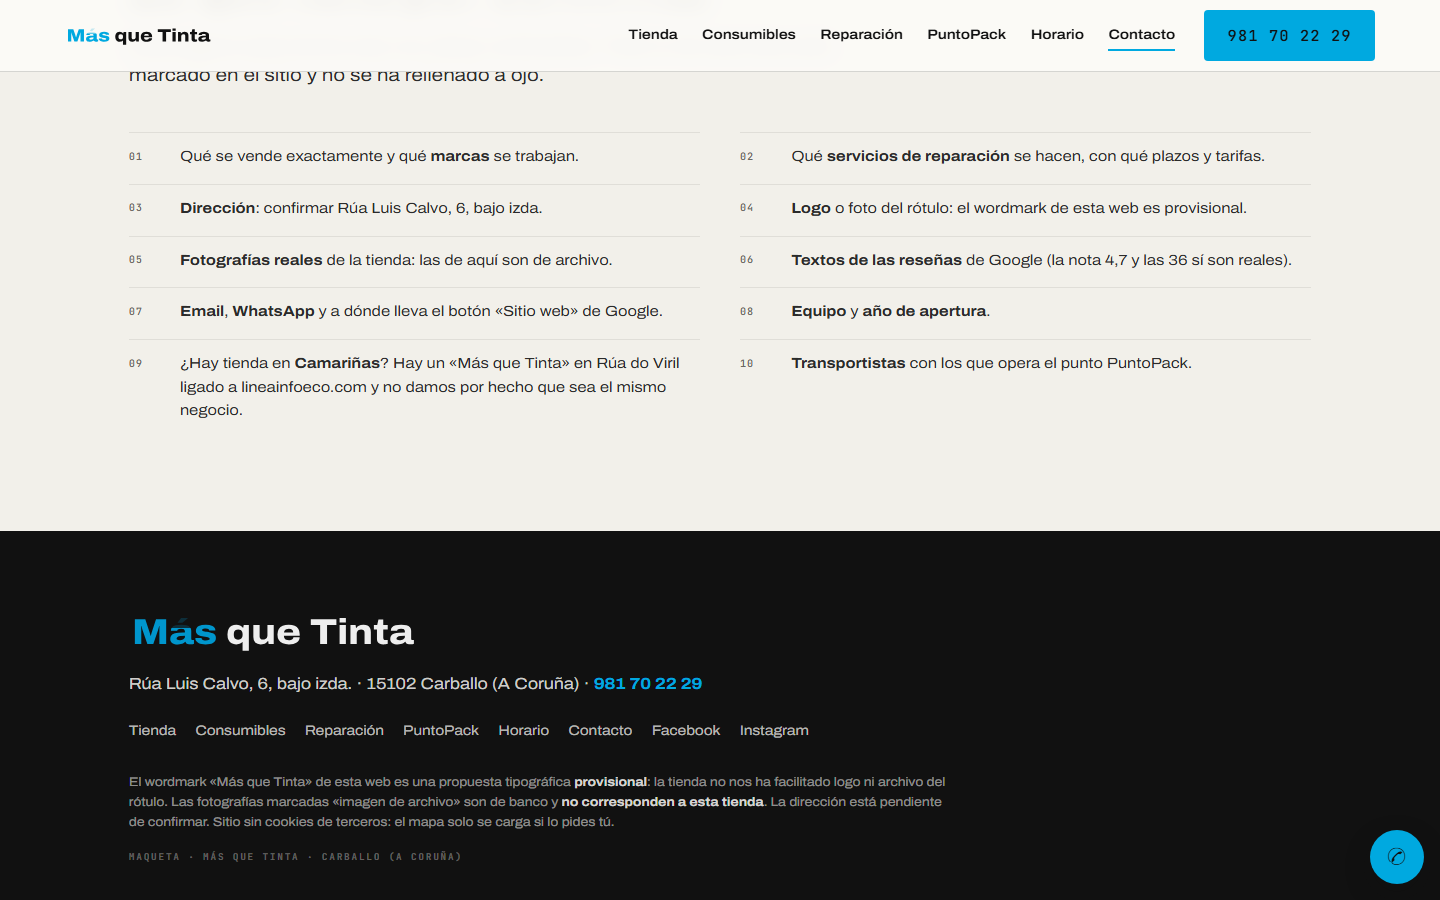
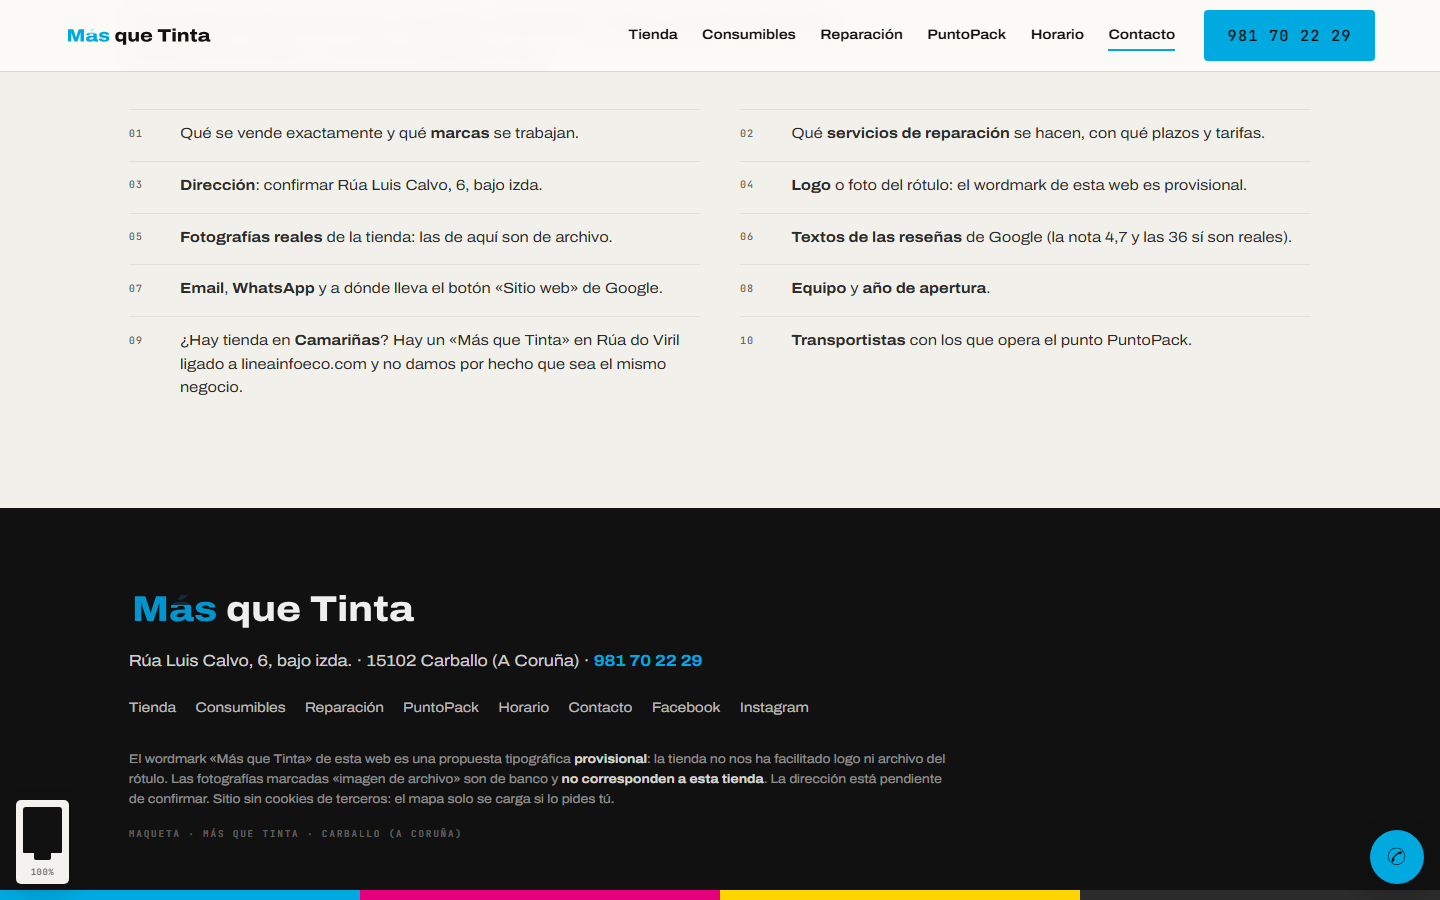
Añade el cartucho de scroll: nivel de lectura con la tinta de la sección
Indicador fijo abajo a la izquierda, en el mismo lenguaje que el resto:
un depósito que se llena de abajo arriba con transform: scaleY según lo
que llevas leído, con las rayas de nivel, el cabezal y el porcentaje en
mono. La tinta es la de la sección que estás cruzando —dentro de la pila
de categorías, la de la tarjeta activa— y el cambio entra con el mismo
barrido de cabezal de 0,5 s. Pulsarlo vuelve arriba.

Tres cosas que hubo que corregir al verlo en contexto:
- va sobre una placa de papel: cruza secciones cian, magenta, amarilla y
  negra, y el porcentaje en gris no se leía encima;
- las rayas de nivel van DEBAJO de la tinta; encima desaparecían con la
  tinta negra al 80 % y el cartucho quedaba en un rectángulo sin nivel;
- la superficie lleva una línea de menisco con
  top: calc(100% - var(--carga) * 100%), que no depende del color.

El nivel se actualiza siempre, también con movimiento reducido y sin
GSAP: es estado, no decoración. Un rAF por evento de scroll, 0 long
tasks y 60 fps medidos; a 400 px no choca con el botón de llamar ni
desborda.

5 pruebas nuevas (39/39): avance real, tinta por sección, cambio de
tinta, y que sigue midiendo con reduced-motion y con el CDN caído.

diff --git a/js/main.js b/js/main.js
@@ -24,6 +24,13 @@
   const $ = (sel, ctx) => (ctx || document).querySelector(sel);
   const $$ = (sel, ctx) => Array.from((ctx || document).querySelectorAll(sel));
   const rem = () => parseFloat(getComputedStyle(html).fontSize) || 16;
+
+  /* el cartucho del scroll y la pila de categorías comparten tinta: la pila
+     manda mientras estás dentro de ella, las demás secciones la declaran en
+     su atributo data-ink */
+  let aplicaTinta = function () {};
+  let tintaCats = "cian";
+  let enCats = false;
   const navH = () => parseFloat(getComputedStyle(html).getPropertyValue("--nav-h")) * rem() || 72;
 
   /* ---------- División en caracteres (accesible) ----------
@@ -143,9 +150,11 @@
     }
     window.addEventListener("scroll", onScroll, { passive: true });
     onScroll();
-    if (fab && hero && "IntersectionObserver" in window) {
+    const cart = $(".cartucho");
+    if (hero && "IntersectionObserver" in window) {
       new IntersectionObserver(([e]) => {
-        fab.classList.toggle("is-visible", !e.isIntersecting);
+        if (fab) fab.classList.toggle("is-visible", !e.isIntersecting);
+        if (cart) cart.classList.toggle("is-visible", !e.isIntersecting);
       }, { threshold: 0.12 }).observe(hero);
     }
   })();
@@ -260,6 +269,71 @@
           onUpdate: () => { el.textContent = String(Math.round(obj.n)); }
         })
       });
+    });
+  }
+
+  /* ---------- Cartucho: el nivel de lectura de toda la página ----------
+     El nivel se actualiza SIEMPRE, también con movimiento reducido y sin
+     GSAP: es estado (cuánto llevas leído), no decoración. Lo que se cae sin
+     GSAP es solo el barrido al cambiar de tinta, que pasa a ser un corte.
+     Va con un rAF por evento de scroll, así que no hay trabajo por frame
+     cuando la página está quieta. */
+  function initCartucho() {
+    const cart = $(".cartucho");
+    if (!cart) return;
+    const cuerpo = $(".cartucho-cuerpo", cart);
+    const base = $('.cartucho-tinta[data-capa="base"]', cart);
+    const nueva = $('.cartucho-tinta[data-capa="nueva"]', cart);
+    const pct = $(".cartucho-pct", cart);
+    const VARS = { cian: "--cian", magenta: "--magenta", amarillo: "--amarillo", tinta: "--negro" };
+    const color = (n) => getComputedStyle(html).getPropertyValue(VARS[n] || "--negro").trim();
+
+    let actual = "";
+    aplicaTinta = function (nombre) {
+      if (!VARS[nombre] || nombre === actual) return;
+      actual = nombre;
+      const c = color(nombre);
+      if (!motion) { base.style.background = c; return; }
+      nueva.style.background = c;
+      gsap.fromTo(nueva, { clipPath: "inset(0 100% 0 0)" }, {
+        clipPath: "inset(0 0% 0 0)", duration: 0.5, ease: "power2.inOut",
+        onComplete: () => {
+          base.style.background = c;
+          gsap.set(nueva, { clipPath: "inset(0 100% 0 0)" });
+        }
+      });
+    };
+    aplicaTinta("cian");
+
+    let pedido = false;
+    function nivel() {
+      pedido = false;
+      const max = html.scrollHeight - window.innerHeight;
+      const p = max > 0 ? Math.min(1, Math.max(0, window.scrollY / max)) : 0;
+      cuerpo.style.setProperty("--carga", p.toFixed(4));
+      pct.textContent = Math.round(p * 100) + "%";
+    }
+    window.addEventListener("scroll", () => {
+      if (!pedido) { pedido = true; requestAnimationFrame(nivel); }
+    }, { passive: true });
+    window.addEventListener("resize", nivel);
+    nivel();
+
+    /* la tinta de la sección que está cruzando la mitad de la pantalla */
+    if ("IntersectionObserver" in window) {
+      const obs = new IntersectionObserver((entradas) => {
+        entradas.forEach((e) => {
+          if (!e.isIntersecting) return;
+          enCats = e.target.classList.contains("cats");
+          aplicaTinta(enCats ? tintaCats : e.target.dataset.ink);
+        });
+      }, { rootMargin: "-45% 0px -50% 0px" });
+      $$("[data-ink]").forEach((sec) => obs.observe(sec));
+    }
+
+    cart.addEventListener("click", () => {
+      if (lenis) lenis.scrollTo(0, { duration: 1.1 });
+      else window.scrollTo({ top: 0, behavior: reduce ? "auto" : "smooth" });
     });
   }
 
@@ -386,8 +460,12 @@
     const cartas = $$(".cat");
     if (!capas.length || !cartas.length || !gsapReady) return;
 
+    /* la tinta que enseña el cartucho mientras cruzas la pila */
+    const TINTA_CARTA = ["cian", "magenta", "magenta", "tinta", "tinta", "amarillo"];
     const estado = capas.map(() => false);
     function pinta(hasta) {
+      tintaCats = TINTA_CARTA[hasta] || "cian";
+      if (enCats) aplicaTinta(tintaCats);
       capas.forEach((capa, i) => {
         const visible = i <= hasta;
         if (estado[i] === visible) return;
@@ -475,9 +553,10 @@
   }
 
   /* ---------- Lenis ---------- */
+  let lenis = null;
   function initLenis() {
     if (!motion || typeof Lenis === "undefined") return;
-    const lenis = new Lenis({ lerp: 0.12, wheelMultiplier: 0.95 });
+    lenis = new Lenis({ lerp: 0.12, wheelMultiplier: 0.95 });
     lenis.on("scroll", ScrollTrigger.update);
     gsap.ticker.add((t) => lenis.raf(t * 1000));
     gsap.ticker.lagSmoothing(0);
@@ -499,6 +578,7 @@
   function arranca() {
     igualaCartas();
     initLenis();
+    initCartucho();
     initHero();
     initTitulares();
     initNivelesSeccion();

diff --git a/scripts/verify.js b/scripts/verify.js
@@ -223,8 +223,34 @@ const escalaX = (page, sel) => page.evaluate((s) => {
   }));
   ok('el contador termina en los datos reales 4,7 y 36', res.nota === '4,7' && res.n === '36', res);
 
+  /* --- cartucho del scroll ---
+     El nivel tiene que coincidir con el avance real de la página y la
+     tinta con la de la sección que estás cruzando. */
+  const cartucho = async () => page.evaluate(() => {
+    const c = document.querySelector('.cartucho');
+    const base = c.querySelector('[data-capa="base"]');
+    const max = document.documentElement.scrollHeight - window.innerHeight;
+    return {
+      real: Math.round((window.scrollY / max) * 100),
+      pct: parseInt(c.querySelector('.cartucho-pct').textContent, 10),
+      escala: Math.round(new DOMMatrixReadOnly(getComputedStyle(base).transform).d * 100),
+      tinta: getComputedStyle(base).backgroundColor,
+      visible: c.classList.contains('is-visible')
+    };
+  });
+  /* aquí el recorrido está en Reseñas, que es cian */
+  const cRes = await cartucho();
+  ok('el cartucho marca el avance real de la página',
+    Math.abs(cRes.pct - cRes.real) <= 1 && Math.abs(cRes.escala - cRes.real) <= 1, cRes);
+  ok('el cartucho lleva la tinta de la sección (cian en Reseñas)',
+    cRes.tinta === 'rgb(0, 169, 224)' && cRes.visible, { tinta: cRes.tinta });
+
   /* --- mapa bajo demanda --- */
   await rueda(page, await donde(page, '#contacto', 60));
+  const cCon = await cartucho();
+  ok('el cartucho cambia de tinta al entrar en Contacto (magenta)',
+    cCon.tinta === 'rgb(229, 0, 125)' && cCon.pct > cRes.pct, { tinta: cCon.tinta, pct: cCon.pct });
+
   ok('NO hay iframe de Google antes de pedirlo', (await page.$$('iframe')).length === 0);
   await page.click('.map-consent');
   await page.waitForTimeout(2500);
@@ -289,6 +315,18 @@ const escalaX = (page, sel) => page.evaluate((s) => {
     rm.capas.every(puesta), rm.capas);
   ok('con movimiento reducido el contenido no se pierde (4,7 y 36)',
     rm.nota === '4,7' && rm.resenas === '36', { nota: rm.nota, resenas: rm.resenas });
+  await pr.evaluate(() => window.scrollTo(0, Math.round((document.documentElement.scrollHeight - innerHeight) * 0.6)));
+  await pr.waitForTimeout(500);
+  const crm = await pr.evaluate(() => {
+    const c = document.querySelector('.cartucho');
+    const max = document.documentElement.scrollHeight - innerHeight;
+    return { real: Math.round(window.scrollY / max * 100),
+             pct: parseInt(c.querySelector('.cartucho-pct').textContent, 10),
+             escala: Math.round(new DOMMatrixReadOnly(getComputedStyle(c.querySelector('[data-capa="base"]')).transform).d * 100) };
+  });
+  ok('con movimiento reducido el cartucho SIGUE midiendo el avance',
+    Math.abs(crm.pct - crm.real) <= 1 && Math.abs(crm.escala - crm.real) <= 1, crm);
+
   ok('con movimiento reducido las franjas del horario estan pintadas',
     rm.franjas.length === 12 && rm.franjas.every((f) => f === 100));
   await pr.screenshot({ path: path.join(SHOTS, 'v-reduced.png'), fullPage: false });
@@ -300,13 +338,18 @@ const escalaX = (page, sel) => page.evaluate((s) => {
   await ps.route('**/lenis*/**', (r) => r.abort());
   await ps.goto(URL, { waitUntil: 'domcontentloaded' });
   await ps.waitForTimeout(2600);
+  await ps.evaluate(() => window.scrollTo(0, Math.round((document.documentElement.scrollHeight - innerHeight) * 0.5)));
+  await ps.waitForTimeout(400);
   const sin = await ps.evaluate(() => ({
     marca: !!document.querySelector('.hero-marca') && getComputedStyle(document.querySelector('.hero-marca')).opacity,
     tel: document.querySelector('a[href^="tel:"]').getAttribute('href'),
-    tanque: Math.round(new DOMMatrixReadOnly(getComputedStyle(document.querySelector('.tanque-tinta')).transform).d * 100)
+    tanque: Math.round(new DOMMatrixReadOnly(getComputedStyle(document.querySelector('.tanque-tinta')).transform).d * 100),
+    cartucho: parseInt(document.querySelector('.cartucho-pct').textContent, 10)
   }));
   ok('si el CDN falla la marca y el telefono siguen visibles',
     sin.marca === '1' && sin.tel === 'tel:+34981702229' && sin.tanque === 100, sin);
+  ok('si el CDN falla el cartucho sigue midiendo el avance',
+    Math.abs(sin.cartucho - 50) <= 2, { cartucho: sin.cartucho });
   await ps.screenshot({ path: path.join(SHOTS, 'v-sin-gsap.png') });
 
   ok('sin errores de consola', informe.consola.length === 0, informe.consola.slice(0, 6));

diff --git a/css/style.css b/css/style.css
@@ -179,6 +179,63 @@ a:hover { text-decoration-color: currentColor; }
 .btn-linea:hover { background: var(--negro); color: var(--papel); }
 .btn-tel { font-size: 0.78rem; opacity: 0.72; }
 
+/* ---------- Cartucho: el nivel de lectura de toda la página ----------
+   Mismo gesto que el resto de la web: un depósito que se llena de abajo
+   arriba con transform: scaleY. La tinta es la de la sección en la que
+   estás, y el cambio entra con el mismo barrido de cabezal que la pila
+   de categorías. */
+.cartucho {
+  position: fixed; left: 1rem; bottom: 1rem; z-index: 140;
+  display: flex; flex-direction: column; align-items: center;
+  /* placa de papel: el cartucho pasa por encima de secciones cian,
+     magenta, amarilla y negra, y sin ella el porcentaje en gris no se lee */
+  padding: 0.4rem 0.45rem 0.3rem;
+  background: rgba(251, 250, 247, 0.97);
+  border-radius: 5px;
+  box-shadow: 0 6px 20px rgba(17, 17, 17, 0.2);
+  opacity: 0; pointer-events: none;
+  transition: opacity 0.3s var(--ease), transform 0.3s var(--ease);
+}
+.cartucho.is-visible { opacity: 1; pointer-events: auto; }
+.cartucho:hover { transform: translateY(-3px); }
+.cartucho-cuerpo {
+  position: relative; display: block;
+  width: 2.4rem; height: 2.9rem;
+  border: 2px solid var(--negro); border-radius: 3px 3px 1px 1px;
+  background: var(--papel); overflow: hidden;
+}
+.cartucho-tinta {
+  position: absolute; inset: 0; display: block;
+  background: var(--cian);
+  transform: scaleY(var(--carga, 0)); transform-origin: bottom;
+}
+.cartucho-tinta[data-capa="nueva"] { clip-path: inset(0 100% 0 0); }
+/* Las rayas de nivel van DEBAJO de la tinta, no encima: así se ven sobre
+   el papel del hueco vacío y la tinta las tapa según sube. Encima no
+   valían: con la tinta negra al 80 % desaparecían y el cartucho se
+   quedaba en un rectángulo sin nivel. */
+.cartucho-marcas {
+  position: absolute; inset: 0; display: block;
+  background-image: repeating-linear-gradient(to bottom,
+    transparent 0 9px, rgba(17, 17, 17, 0.16) 9px 10px);
+}
+/* la superficie de la tinta: una línea nítida que no depende del color.
+   --carga es un número sin unidad, así que multiplica dentro del calc. */
+.cartucho-menisco {
+  position: absolute; left: 0; right: 0; display: block;
+  height: 2px; margin-top: -1px; background: var(--negro);
+  top: calc(100% - var(--carga, 0) * 100%);
+  opacity: var(--carga, 0);
+}
+.cartucho-cabezal {
+  display: block; width: 1.05rem; height: 0.4rem;
+  background: var(--negro); border-radius: 0 0 2px 2px;
+}
+.cartucho-pct {
+  display: block; margin-top: 0.35rem;
+  font-size: 0.55rem; letter-spacing: 0.06em; color: var(--gris);
+}
+
 .call-fab {
   position: fixed; right: 1rem; bottom: 1rem; z-index: 140;
   width: 3.4rem; height: 3.4rem; border-radius: 50%;
@@ -884,6 +941,10 @@ html.has-motion .hor-franja { transform: scaleX(0); }
   .cat-ul li { font-size: 0.74rem; }
   .pend-lista li { grid-template-columns: 2rem 1fr; gap: 0.5rem; font-size: 0.86rem; }
   .call-fab { width: 3rem; height: 3rem; }
+  .cartucho { left: 0.7rem; bottom: 0.7rem; }
+  .cartucho-cuerpo { width: 1.9rem; height: 2.3rem; }
+  .cartucho-cabezal { width: 0.85rem; height: 0.34rem; }
+  .cartucho-pct { font-size: 0.5rem; margin-top: 0.25rem; }
 }
 
 /* ============================================================
@@ -893,5 +954,8 @@ html.has-motion .hor-franja { transform: scaleX(0); }
 @media (prefers-reduced-motion: reduce) {
   .marquesina-cinta { animation: none; }
   .ficha { transition: none; }
+  /* el cartucho SIGUE marcando el nivel de lectura: eso es estado, no
+     adorno. Lo que se quita es el desplazamiento al pasar por encima. */
+  .cartucho:hover { transform: none; }
   * { scroll-behavior: auto !important; }
 }

diff --git a/index.html b/index.html
@@ -111,7 +111,7 @@
 <main>
 
 <!-- ============ HERO: panel de niveles ============ -->
-<section class="hero" id="inicio">
+<section class="hero" id="inicio" data-ink="cian">
   <div class="hero-in">
 
     <div class="hero-texto">
@@ -705,7 +705,7 @@
 </section>
 
 <!-- ============ LO QUE FALTA ============ -->
-<section class="pend-bloque" id="pendiente">
+<section class="pend-bloque" id="pendiente" data-ink="tinta">
   <header class="cab">
     <p class="etiqueta mono">CONTROL DE CALIDAD</p>
     <h2 class="titulo titulo-s" data-split-char>Lo que falta por confirmar</h2>
@@ -748,6 +748,21 @@
     <i style="background: var(--cian)"></i><i style="background: var(--magenta)"></i><i style="background: var(--amarillo)"></i><i style="background: var(--negro-2)"></i>
   </div>
 </footer>
+
+<!-- Indicador de scroll: un cartucho que se llena con lo que llevas leído
+     y que cambia a la tinta de la sección en la que estás. Pulsarlo sube
+     al principio. El porcentaje va en aria-hidden porque el botón ya dice
+     lo que hace; el nivel es decoración, no información que se pierda. -->
+<button class="cartucho" type="button" aria-label="Volver arriba">
+  <span class="cartucho-cuerpo">
+    <i class="cartucho-marcas"></i>
+    <i class="cartucho-tinta" data-capa="base"></i>
+    <i class="cartucho-tinta" data-capa="nueva"></i>
+    <i class="cartucho-menisco"></i>
+  </span>
+  <span class="cartucho-cabezal"></span>
+  <span class="cartucho-pct mono" aria-hidden="true">0%</span>
+</button>
 
 <a class="call-fab magnetico" href="tel:+34981702229" aria-label="Llamar a Más que Tinta">
   <span aria-hidden="true">✆</span>

diff --git a/README.md b/README.md
@@ -73,6 +73,7 @@ vea y lo rellene.
 | `#resenas` | cian | 4,7 ★ · 36 reseñas reales; textos vacíos a propósito |
 | `#contacto` | magenta | teléfono, dirección, horario, redes y mapa bajo demanda |
 | `#pendiente` | negro | la lista de arriba, visible en la web |
+| Cartucho fijo | la de la sección | indicador de scroll: se llena con lo leído y cambia de tinta con el mismo barrido de cabezal; pulsarlo sube al principio |
 
 Regla de color: **una sola tinta por sección**. Las cuatro juntas solo en el
 hero, la marquesina y la franja del pie.
@@ -104,9 +105,20 @@ hero, la marquesina y la franja del pie.
      ni el margen del último hijo sirven, y con un `::after` demasiado corto
      PuntoPack se veía un tercio de lo que se ve el resto.
   El `min-height` va en la tarjeta, nunca en el `<li>` (eso deja fantasmas).
+- **Cartucho del scroll** (abajo a la izquierda): el mismo gesto que el resto,
+  un depósito con `transform: scaleY`. Va con **un rAF por evento de scroll**,
+  así que no hay trabajo por frame con la página quieta (medido: 0 long tasks,
+  60 fps). Tres detalles que costaron una iteración: va sobre una **placa de
+  papel** porque cruza secciones cian, magenta, amarilla y negra y el
+  porcentaje en gris no se leía encima; las rayas de nivel van **debajo** de la
+  tinta, porque encima desaparecían con la tinta negra al 80 %; y la
+  superficie lleva una **línea de menisco** posicionada con
+  `top: calc(100% - var(--carga) * 100%)`, que no depende del color de la
+  tinta.
 - **Movimiento reducido**: los niveles salen ya llenos y no hay barrido, pero
-  el contenido no cambia — los porcentajes, la nota 4,7 y las 36 reseñas se
-  pintan igual.
+  el contenido no cambia — los porcentajes, la nota 4,7, las 36 reseñas y **el
+  nivel del cartucho** se pintan igual. El cartucho mide *cuánto llevas leído*:
+  eso es estado, no adorno, así que se actualiza también sin GSAP.
 - **Mapa**: `google.com/maps?q=…&output=embed`, sin API key, y **solo se monta
   al pulsar** (patrón `.map-consent`). Es lo que hace cierto el aviso de «sin
   cookies de terceros».
@@ -162,7 +174,7 @@ teclados de marca sobre fondo blanco, que el brief prohíbe expresamente.
 | `node scripts/contact_sheets.js "consulta"…` | hojas de contacto de Pexels para elegir foto |
 | `node scripts/generate_og.js` | imagen 1200×630 para compartir |
 | `node scripts/shots.js <url> <ancho> <etiqueta> <alto>` | capturas por sección |
-| `node scripts/verify.js <url>` | **la verificación**: 34 pruebas |
+| `node scripts/verify.js <url>` | **la verificación**: 39 pruebas |
 
 Los de Node necesitan `NODE_PATH=/c/Users/alvar/node_modules`.
 
@@ -173,14 +185,15 @@ python -m http.server 8247
 NODE_PATH=/c/Users/alvar/node_modules node scripts/verify.js http://127.0.0.1:8247/
 ```
 
-34/34 pruebas. Comprueba, entre otras: que los cuatro depósitos del hero
+39/39 pruebas. Comprueba, entre otras: que los cuatro depósitos del hero
 llegan a su nivel y el porcentaje coincide, que la «á» se rellena, que el
 botón del aviso de cookies **cierra**, que **no hay iframe de Google antes de
 pulsar** y sí después, que el barrido de tinta llega hasta la sexta tarjeta,
 que el eje de horas cae exactamente sobre la columna de las franjas, que
 **la pila pegajosa se suelta entera** —las seis tarjetas se pegan, miden lo
 mismo y ninguna asoma por detrás al salir—, que los
-contadores acaban en 4,7 y 36, que a 400 px siguen estando las cuatro barras y
+contadores acaban en 4,7 y 36, que **el cartucho del scroll marca el avance
+real de la página y lleva la tinta de la sección**, que a 400 px siguen estando las cuatro barras y
 no hay scroll horizontal, que con movimiento reducido los niveles salen llenos
 **sin perder ni un dato**, y que si el CDN de GSAP cae la marca y el teléfono
 siguen ahí.
